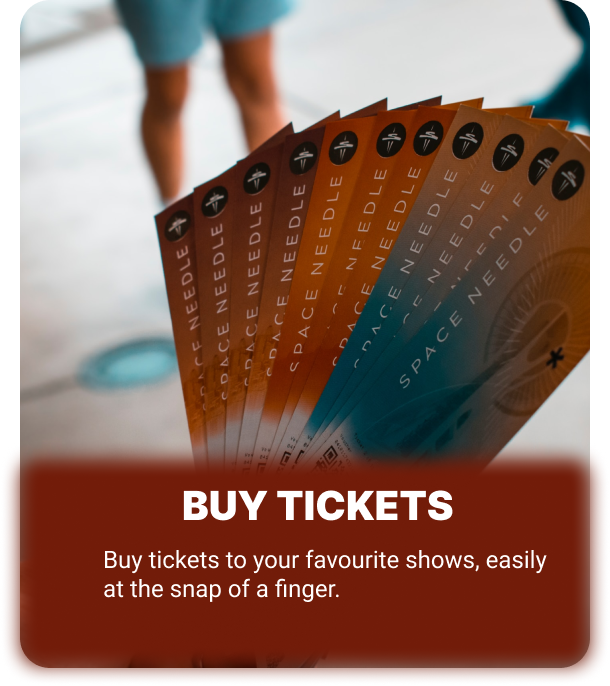
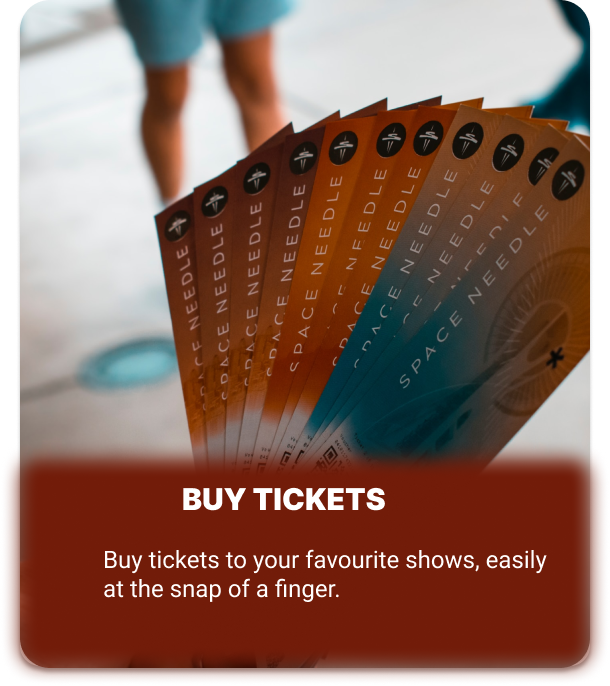
12-dec-2022

Changed region(s): [[0.2803, 0.7041, 0.7475, 0.7653], [0.0311, 0.949, 0.9656, 0.9796]]

diff --git a/index.css b/index.css
@@ -23,7 +23,7 @@
 }
 
 .item3 > div {
-	height: 102%;
+	height: 103%;
 	width: 100%;
 }
 
@@ -174,6 +174,15 @@ footer {
 
 .ver {
 	padding: 62px 0px;
+}
+
+.ver h4 {
+	font-size: 24px;
+}
+
+.ver p {
+	font-size: 16px;
+	color: #caa9a2;
 }
 
 .iphone {
@@ -581,7 +590,7 @@ textarea {
 	}
 	.item3 > div {
 		height: 100%;
-		width: 99%;
+		width: 96%;
 	}
 	.item3 {
 		height: 450px;
@@ -626,5 +635,8 @@ textarea {
 	}
 	.desktopOnly {
 		display: none;
+	}
+	.ver h4 {
+		font-size: 16px;
 	}
 }
